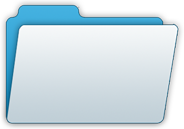
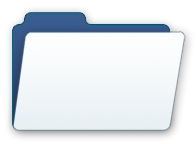
- Updated some report explorer styles as per the visual specification (page 2).
- Signed off by Jon Totton

diff --git a/RS/Reporting/ReportManager/ReportManagerMVC/ReportManager/Forerunner/ReportExplorer/css/ReportExplorer.css b/RS/Reporting/ReportManager/ReportManagerMVC/ReportManager/Forerunner/ReportExplorer/css/ReportExplorer.css
@@ -1,7 +1,7 @@
 
 .fr-Explorer-background {
     
-    background: rgb(210,223,237);
+    background: #d5e1f2;
     /*
     background: rgb(141,158,165); 
[1 lines of base64/hex data omitted]
@@ -26,7 +26,7 @@
 .fr-explorer-item {
     display: inline-block;
     margin: 20px;
-    padding: 10px 30px 20px 20px;
+    padding: 28px 28px 28px 28px;
     cursor: pointer;
     width: 200px;
     height: 250px;
@@ -45,8 +45,8 @@
 }
 
 .fr-explorer-item-title {
-    text-align: center;    
-    font-size:  11pt;
+    text-align: left;    
+    font-size:  13pt;
     font-family:Helvetica Neue;
     color: #212729;
     font-weight:700;
